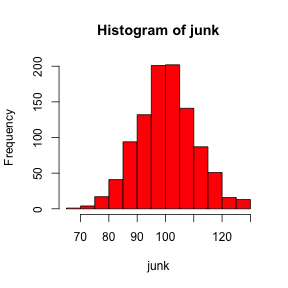
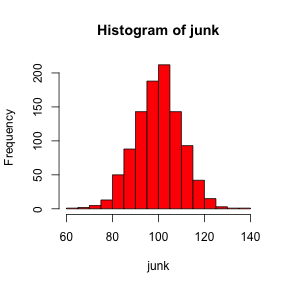
update

diff --git a/Alan/summaries/shell/MacCheck.html b/Alan/summaries/shell/MacCheck.html
@@ -237,15 +237,15 @@ unhiddn files and folders.</p>
 </code></pre>
 
 <pre><code>total 144
-drwxr-xr-x  9 alan  staff    306 Feb  3 14:30 .
+drwxr-xr-x  9 alan  staff    306 Feb  3 16:47 .
 drwxr-xr-x  8 alan  staff    272 Feb  3 14:15 ..
--rw-r--r--  1 alan  staff   1283 Feb  3 14:30 MacCheck.Rmd
--rw-r--r--  1 alan  staff  40883 Feb  3 14:30 MacCheck.html
--rw-r--r--  1 alan  staff   2434 Feb  3 14:30 MacCheck.md
+-rw-r--r--  1 alan  staff   1289 Feb  3 16:48 MacCheck.Rmd
+-rw-r--r--  1 alan  staff  39794 Feb  3 16:47 MacCheck.html
+-rw-r--r--  1 alan  staff   2496 Feb  3 16:47 MacCheck.md
 -rw-r--r--  1 alan  staff   1085 Feb  3 14:15 WindowsCheck.Rmd
 -rw-r--r--  1 alan  staff  15189 Feb  3 14:15 WindowsCheck.html
 -rw-r--r--  1 alan  staff   1646 Feb  3 14:15 WindowsCheck.md
-drwxr-xr-x  5 alan  staff    170 Feb  3 14:30 figure
+drwxr-xr-x  5 alan  staff    170 Feb  3 16:47 figure
 </code></pre>
 
 <p><code>touch</code> creates an empty file</p>
@@ -282,24 +282,20 @@ figure
 <pre><code class="bash">date
 </code></pre>
 
-<pre><code>Mon Feb  3 14:32:09 EST 2014
+<pre><code>Mon Feb  3 16:48:13 EST 2014
 </code></pre>
 
-<pre><code class="r">#### Folded chunk ####
-junk &lt;- rnorm(1000, 100, 10)
+<pre><code class="r">junk &lt;- rnorm(1000, 100, 10)
 hist(junk, col = &quot;red&quot;)
 library(ggplot2)
 </code></pre>
 
[2 lines of base64/hex data omitted]
 
 <pre><code class="r">ggplot(data.frame(x = junk), aes(x = x)) + geom_histogram()
 </code></pre>
 
-<pre><code>## stat_bin: binwidth defaulted to range/30. Use &#39;binwidth = x&#39; to adjust this.
-</code></pre>
-
[2 lines of base64/hex data omitted]
 
 </body>
 

diff --git a/Alan/summaries/shell/MacCheck.md b/Alan/summaries/shell/MacCheck.md
@@ -75,15 +75,15 @@ ls -al
 
 ```
 total 144
-drwxr-xr-x  9 alan  staff    306 Feb  3 14:30 .
+drwxr-xr-x  9 alan  staff    306 Feb  3 16:47 .
 drwxr-xr-x  8 alan  staff    272 Feb  3 14:15 ..
--rw-r--r--  1 alan  staff   1283 Feb  3 14:30 MacCheck.Rmd
--rw-r--r--  1 alan  staff  40883 Feb  3 14:30 MacCheck.html
--rw-r--r--  1 alan  staff   2434 Feb  3 14:30 MacCheck.md
+-rw-r--r--  1 alan  staff   1289 Feb  3 16:48 MacCheck.Rmd
+-rw-r--r--  1 alan  staff  39794 Feb  3 16:47 MacCheck.html
+-rw-r--r--  1 alan  staff   2496 Feb  3 16:47 MacCheck.md
 -rw-r--r--  1 alan  staff   1085 Feb  3 14:15 WindowsCheck.Rmd
 -rw-r--r--  1 alan  staff  15189 Feb  3 14:15 WindowsCheck.html
 -rw-r--r--  1 alan  staff   1646 Feb  3 14:15 WindowsCheck.md
-drwxr-xr-x  5 alan  staff    170 Feb  3 14:30 figure
+drwxr-xr-x  5 alan  staff    170 Feb  3 16:47 figure
 ```
 
 `touch` creates an empty file
@@ -130,13 +130,12 @@ date
 ```
 
 ```
-Mon Feb  3 14:32:09 EST 2014
+Mon Feb  3 16:48:13 EST 2014
 ```
 
 
 
 ```r
-#### Folded chunk ####
 junk <- rnorm(1000, 100, 10)
 hist(junk, col = "red")
 library(ggplot2)
@@ -146,10 +145,6 @@ library(ggplot2)
 
 ```r
 ggplot(data.frame(x = junk), aes(x = x)) + geom_histogram()
-```
-
-```
-## stat_bin: binwidth defaulted to range/30. Use 'binwidth = x' to adjust this.
 ```
 
 <img src="figure/FOLDED2.png" title="plot of chunk FOLDED" alt="plot of chunk FOLDED" style="display: block; margin: auto;" />
